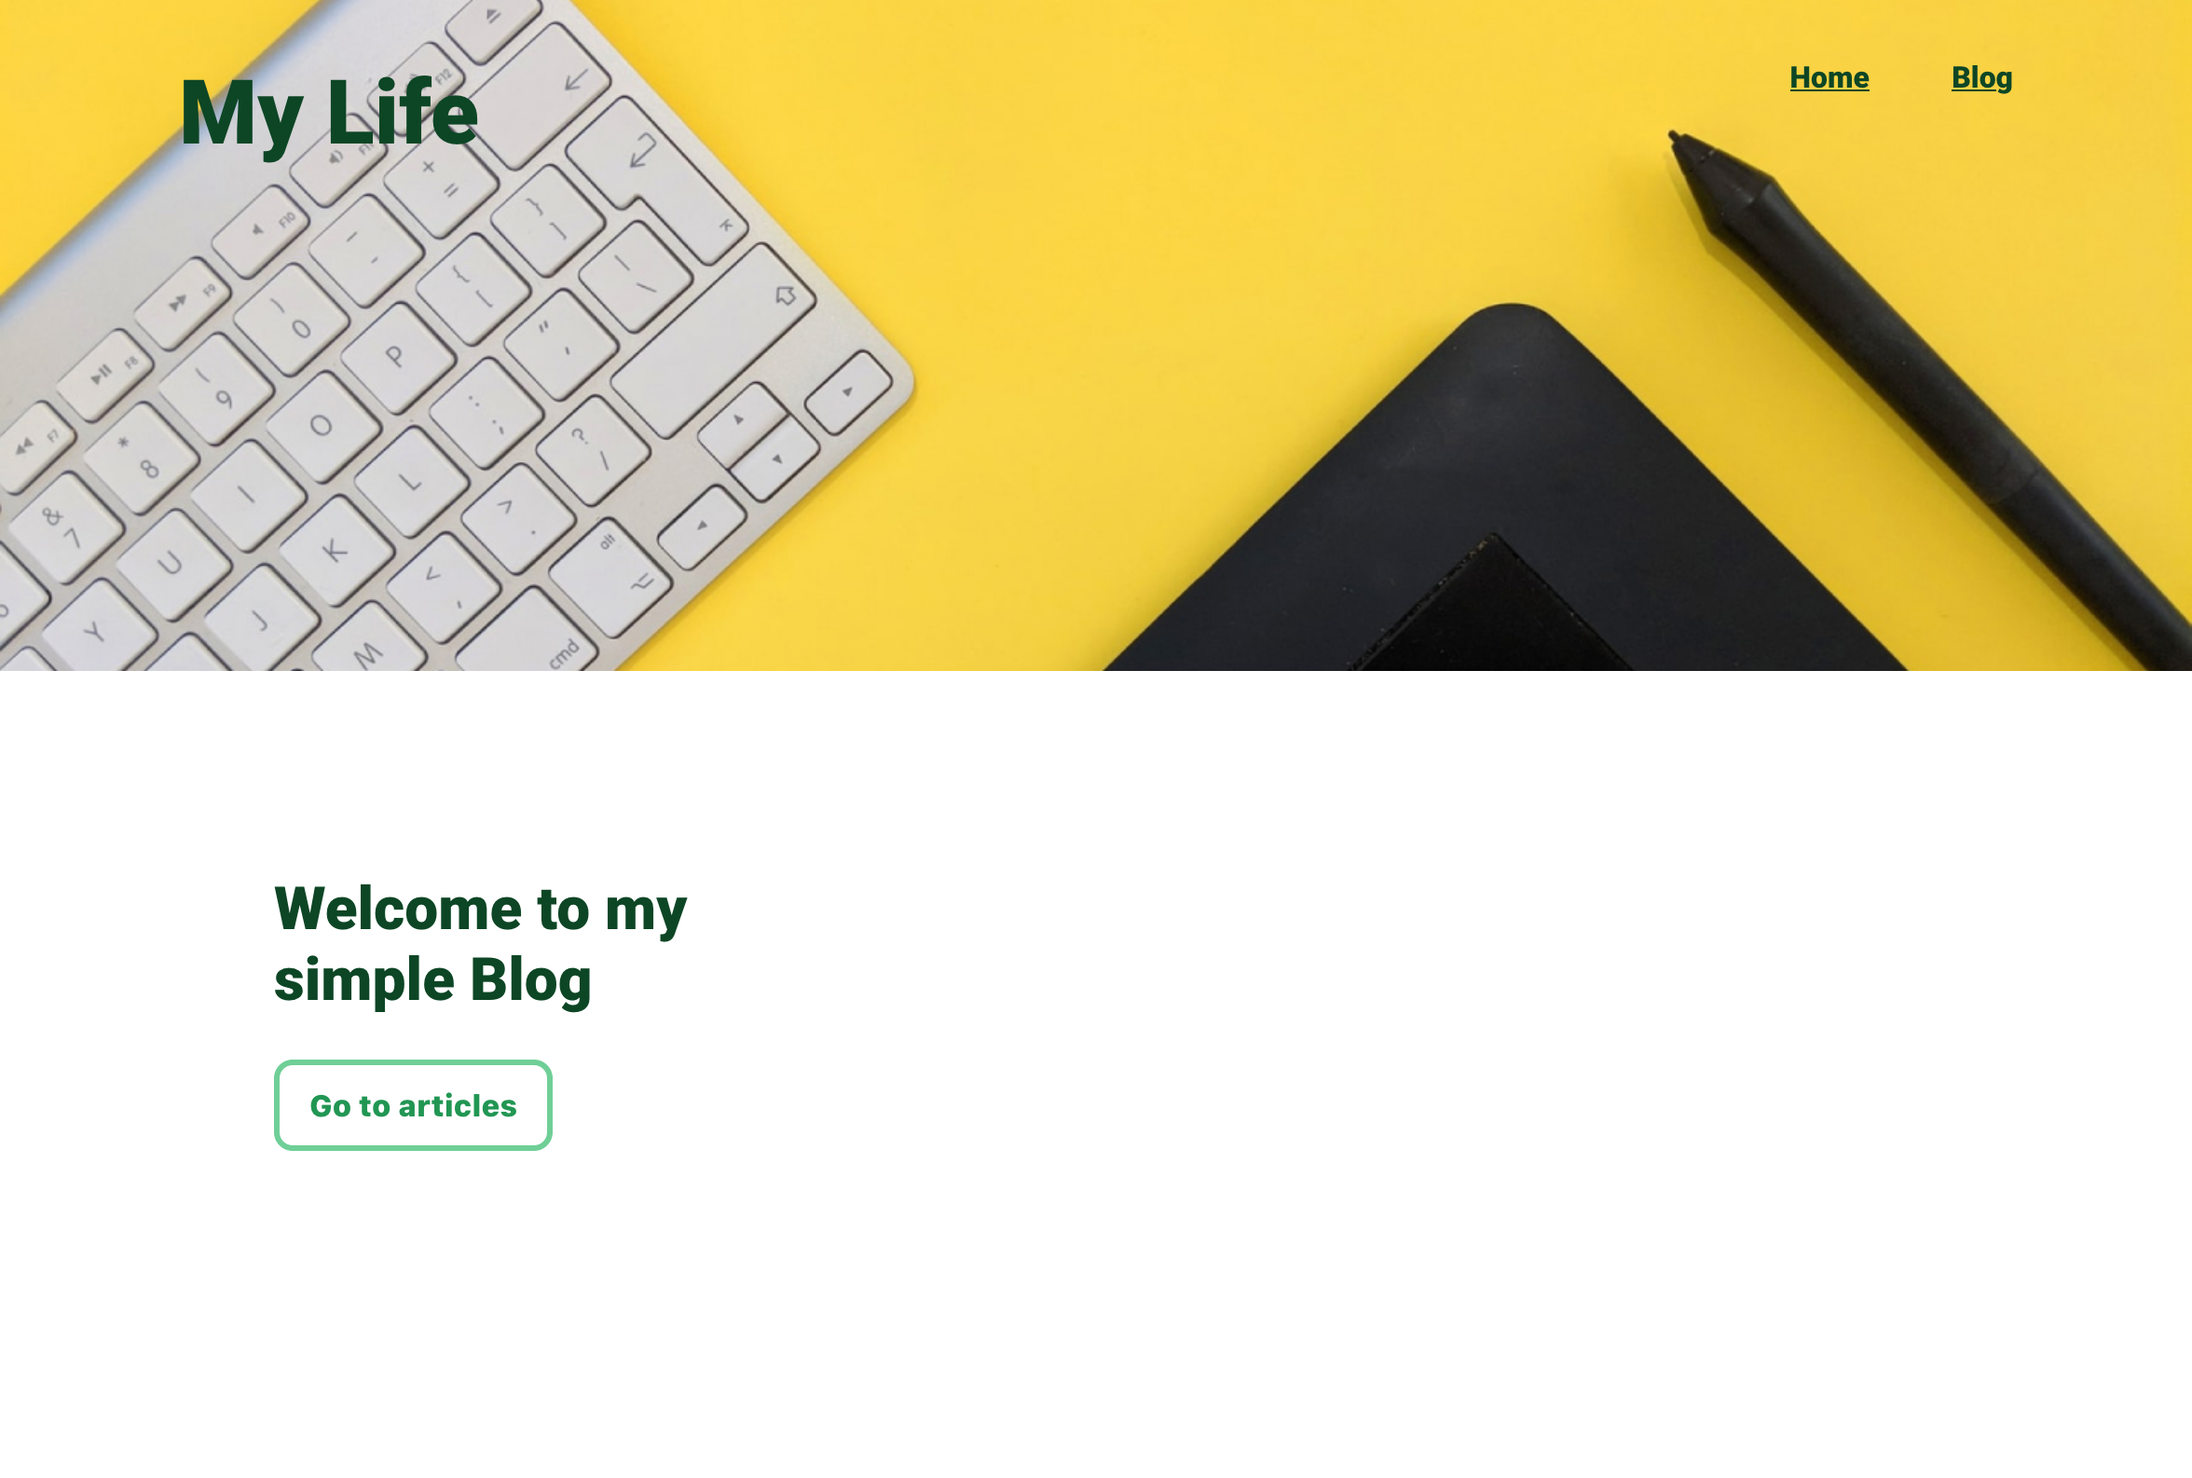
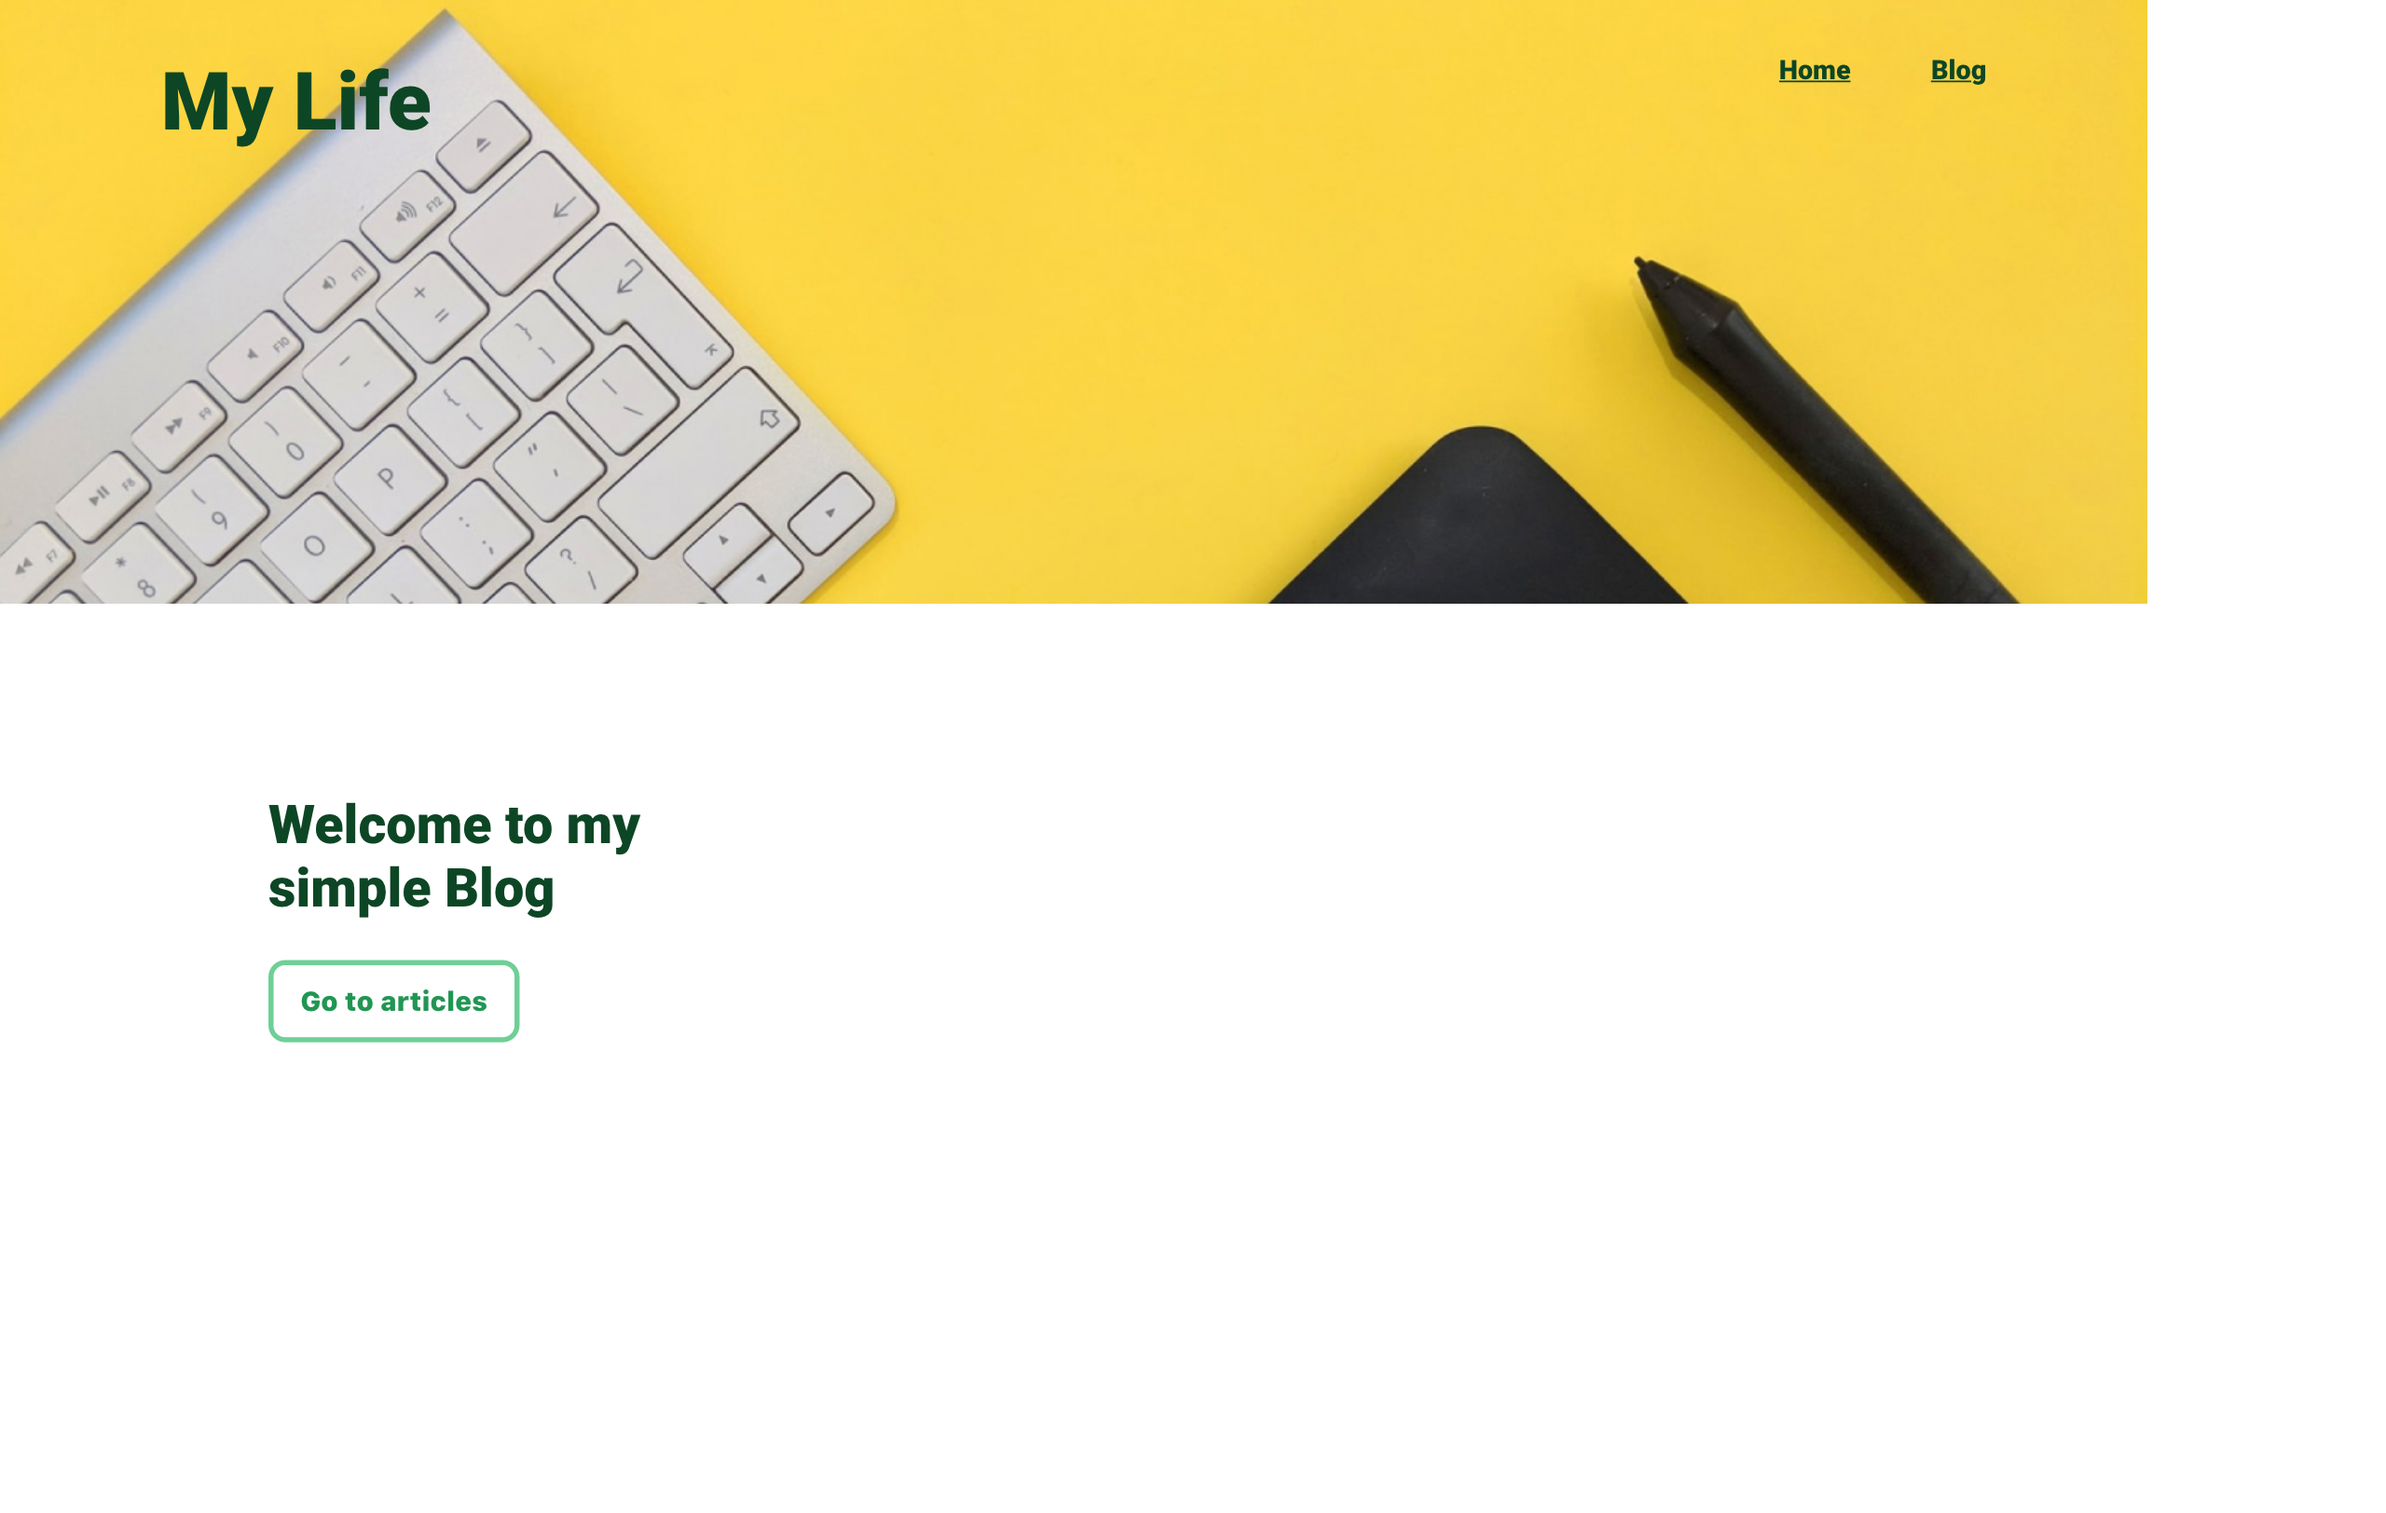
sixth commit

Changed region(s): [[0.0, 0.0, 1.0, 0.4634], [0.0931, 0.5252, 0.3104, 0.8033], [0.7449, 0.0309, 0.7759, 0.0618]]

diff --git a/src/Pages/Home.js b/src/Pages/Home.js
@@ -7,17 +7,9 @@ import imageHome from "../img/simple-blog.jpg";
 import { Link } from "react-router-dom";
 
 const Home = () => {
-    const addHeaderImage = () => {
-    document.querySelector("header").style.backgroundImage = `url(${imageHome})`;
-    document.querySelector("header").style.backgroundRepeat = `no-repeat`;
-    document.querySelector("header").style.backgroundSize = `cover`;
-    document.querySelector("header").style.backgroundPosition = `bottom`;
-    document.querySelector("header").style.height = `360px`;
-    document.querySelector("header").style.width = `100%`;
-    }
-    addHeaderImage();
     return ( 
         <main>
+            <img src={imageHome} alt="simple blog"/>
             <section className="home-page">
                 <h2>Welcome to my<br/>simple Blog</h2>
                 <Link to="blog"><button>Go to articles</button></Link>

diff --git a/src/Pages/Blog.js b/src/Pages/Blog.js
@@ -8,15 +8,7 @@ import PostDetails from "../Components/PostDetails";
 
 // ----------------- BLOG PAGE -----------------
 const Blog = () => {
-    const removeHeaderImage = () => {
-        document.querySelector("header").style.backgroundImage = ``;
-        document.querySelector("header").style.backgroundRepeat = ``;
-        document.querySelector("header").style.backgroundSize = ``;
-        document.querySelector("header").style.backgroundPosition = ``;
-        document.querySelector("header").style.height = ``;
-        }
-        removeHeaderImage();    
-        return ( 
+    return ( 
         <main>
             <section className="post-section">
                 {blogData.map((post, index) => (
@@ -29,7 +21,7 @@ const Blog = () => {
                 ))}
             </section>
         </main>
-     );
+    );
 }
  
 export default Blog;

diff --git a/src/Pages/Details.js b/src/Pages/Details.js
@@ -8,20 +8,12 @@ import { useParams } from "react-router-dom";
 
 // ----------------- DETAILS PAGE -----------------
 const Details = () => {
-    const removeHeaderImage = () => {
-        document.querySelector("header").style.backgroundImage = ``;
-        document.querySelector("header").style.backgroundRepeat = ``;
-        document.querySelector("header").style.backgroundSize = ``;
-        document.querySelector("header").style.backgroundPosition = ``;
-        document.querySelector("header").style.height = ``;
-        }
     const srollToTop = () => {
         window.scrollTo({
             top: 0,
             behavior: 'smooth'
         });
     };
-    removeHeaderImage();
     srollToTop();
     let params = useParams();
     let post = blogData[params.id];

diff --git a/src/App.js b/src/App.js
@@ -6,7 +6,7 @@ import Blog from './Pages/Blog';
 import Details from './Pages/Details';
 
 // PACKAGES
-import { BrowserRouter, Routes, Route } from "react-router-dom"; 
+import { Routes, Route } from "react-router-dom"; 
 
 // COMPONENTS
 import Logo from './Components/logo';
@@ -14,7 +14,6 @@ import Nav from './Components/nav';
 
 function App() {
   return (
-    <BrowserRouter>
     <div className="App">
       <header>
         <Logo />
@@ -26,7 +25,6 @@ function App() {
           <Route path='/:id' element={<Details />} />
         </Routes>
     </div>
-    </BrowserRouter>
   );
 }
 

diff --git a/src/index.js b/src/index.js
@@ -3,11 +3,14 @@ import ReactDOM from 'react-dom/client';
 import './index.css';
 import App from './App';
 import reportWebVitals from './reportWebVitals';
+import { BrowserRouter } from "react-router-dom"; 
 
 const root = ReactDOM.createRoot(document.getElementById('root'));
 root.render(
   <React.StrictMode>
-    <App />
+    <BrowserRouter>
+      <App />
+    </BrowserRouter>
   </React.StrictMode>
 );
 

diff --git a/src/App.css b/src/App.css
@@ -43,9 +43,11 @@ button:hover{
 }
 
 header{
+  position: fixed;
+  top: 0;
+  width: 100%;
   display: flex;
   flex-direction: row;
   justify-content: space-between;
   padding: 32px 96px;
-  height: auto;
 }

diff --git a/src/Pages/Blog.css b/src/Pages/Blog.css
@@ -2,7 +2,7 @@
     display: grid;
     grid-template-columns: repeat(3, 30%);
     gap: 5vw;
-    margin: 12vw;
+    margin: 160px 12.188vw;
 }
 
 .post-section h2{

diff --git a/src/Pages/Details.css b/src/Pages/Details.css
@@ -2,7 +2,7 @@
     display: flex;
     justify-content: right;
     flex-wrap: wrap;
-    margin: 68px 0 0 12.5vw;
+    margin: 160px 0 0 12.5vw;
 }
 
 .post img{

diff --git a/src/Pages/Home.css b/src/Pages/Home.css
@@ -7,3 +7,9 @@
     line-height: 2.375rem;
     margin: 0 0 24px 0;
 }
+
+main img{
+    height: 360px;
+    width: 100%;
+    object-fit: cover;
+}
